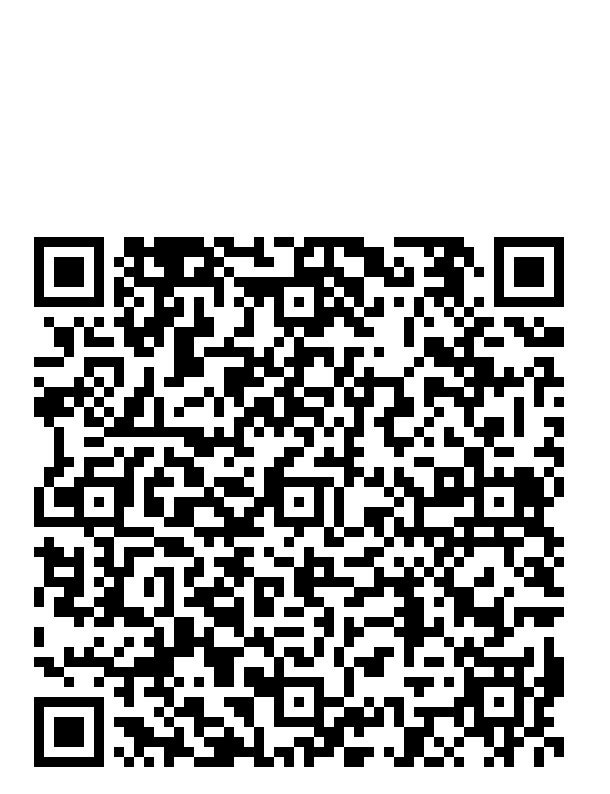
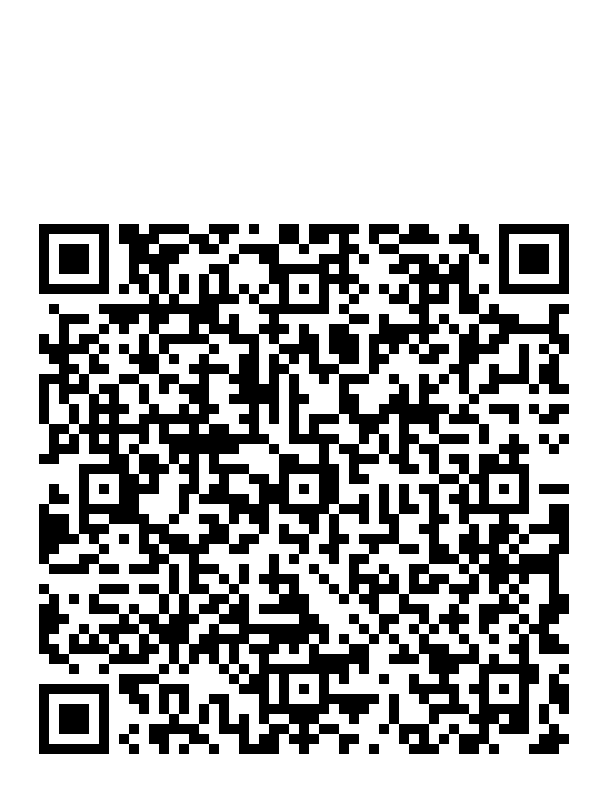
30

diff --git a/Pagamento pix.html b/Pagamento pix.html
@@ -1362,8 +1362,8 @@ body.swal2-no-backdrop .swal2-shown {
     "
   />
 </div>
-                    <input type="text" class="key-pix-input copy_digitable_line" value="00020101021226800014br.gov.bcb.pix2558pix.delbank.com.br/v2/cob/vcharge5a5586811e5940c7b748a786c5204000053039865802BR5907DELBANK6007ARACAJU62070503***63044E92" readonly="">
-                    <input id="key_pix_digitable_line" type="hidden" value="00020101021226800014br.gov.bcb.pix2558pix.delbank.com.br/v2/cob/vcharge5a5586811e5940c7b748a786c5204000053039865802BR5907DELBANK6007ARACAJU62070503***63044E92">
+                    <input type="text" class="key-pix-input copy_digitable_line" value="00020101021226800014br.gov.bcb.pix2558pix.delbank.com.br/v2/cob/vchargec2d855ba9e6c4d9ab14e203705204000053039865802BR5907DELBANK6007ARACAJU62070503***630412D7" readonly="">
+                    <input id="key_pix_digitable_line" type="hidden" value="00020101021226800014br.gov.bcb.pix2558pix.delbank.com.br/v2/cob/vchargec2d855ba9e6c4d9ab14e203705204000053039865802BR5907DELBANK6007ARACAJU62070503***630412D7">
                     <button type="button" id="copy_digitable_line" class="btn buy-btn button-pix copy_digitable_line">
                         <img src="./Pagamento pix_files/copy.svg">
                         COPIAR CÓDIGO
